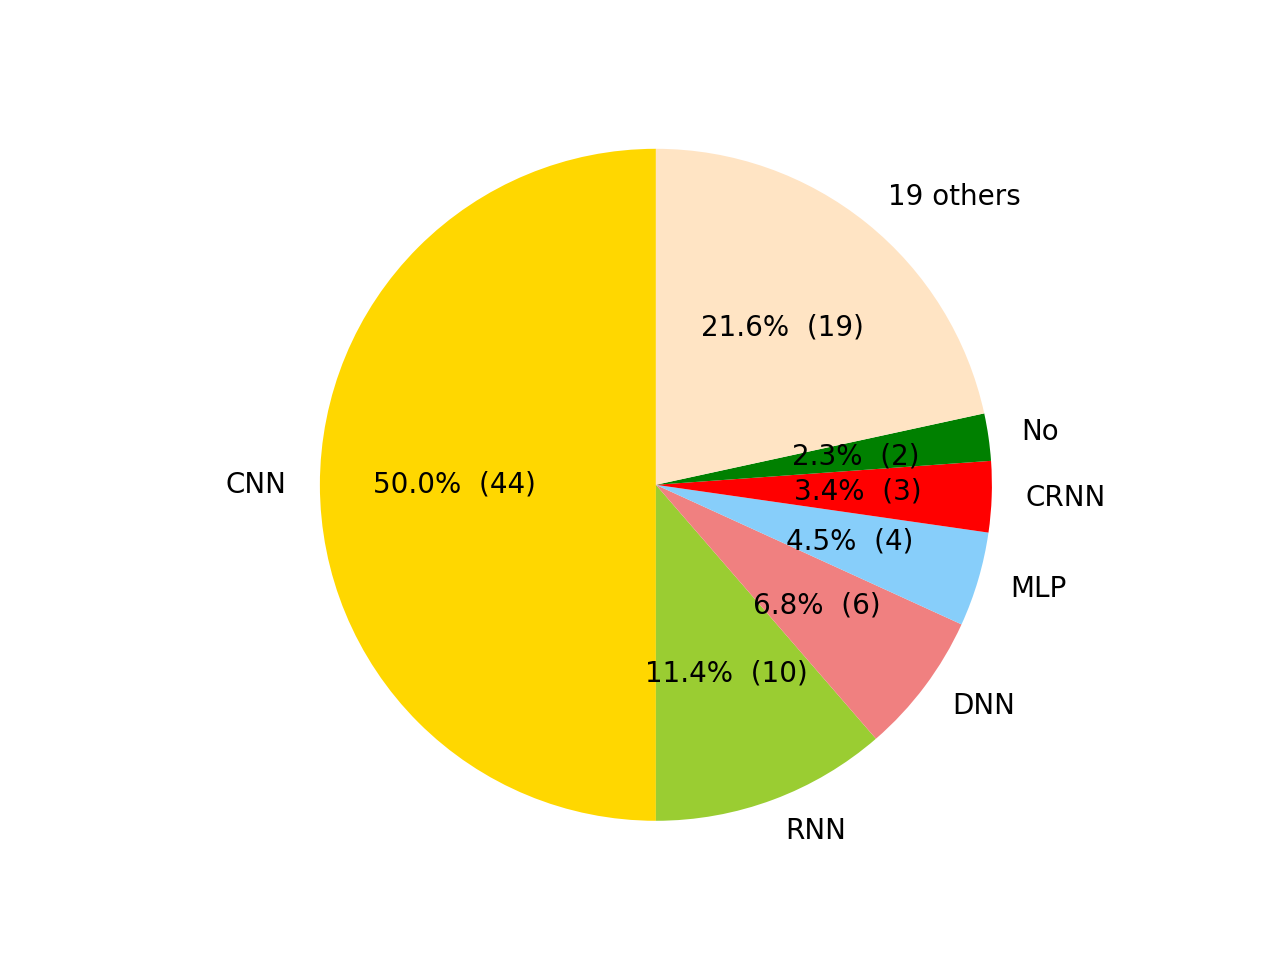
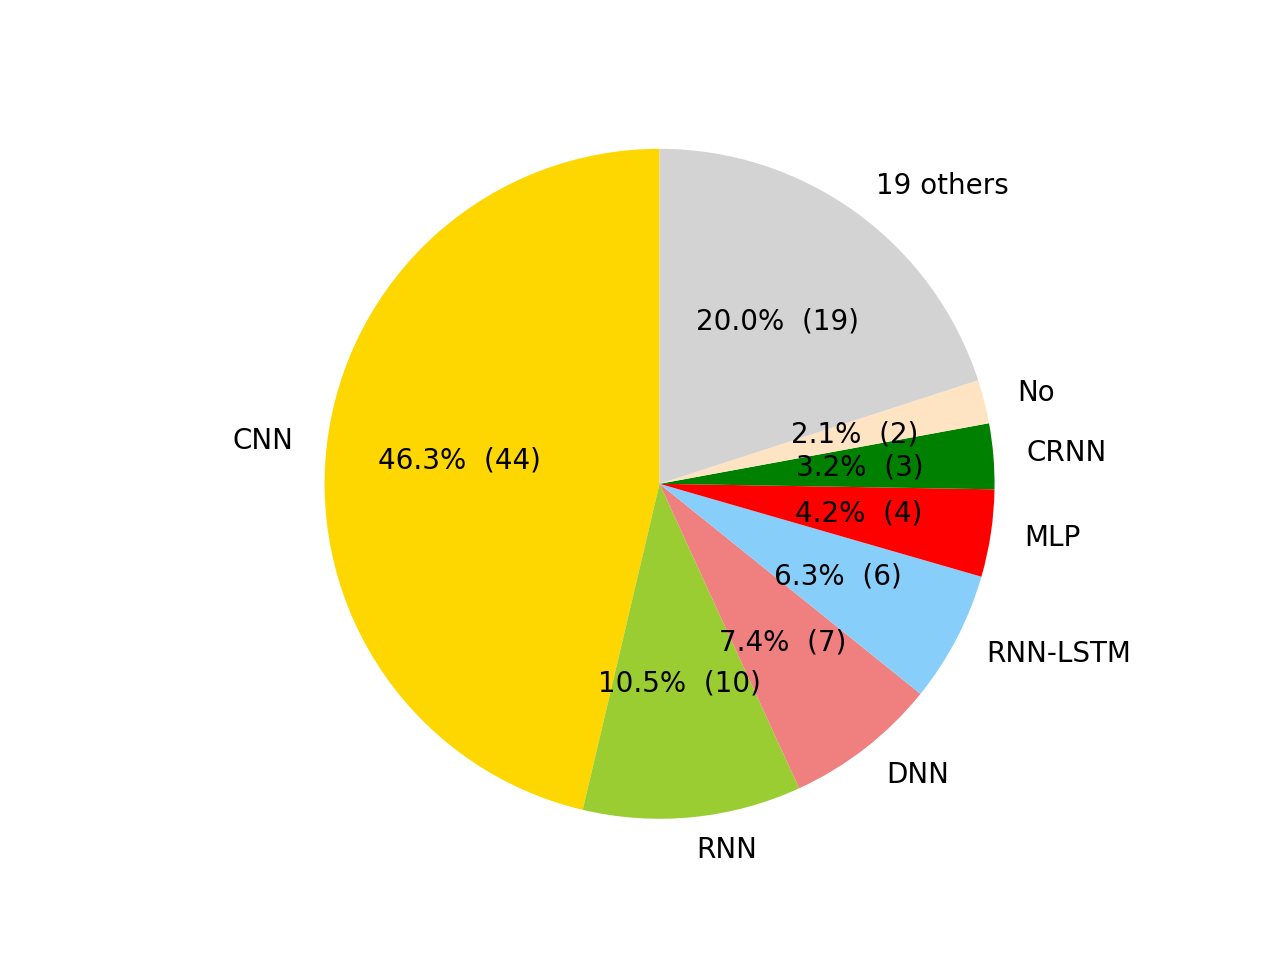
add Soltau1998

diff --git a/README.md b/README.md
@@ -153,6 +153,7 @@ However, these surveys do not cover music information retrieval tasks that are i
 | [A hybrid recurrent neural network for music transcription](https://arxiv.org/pdf/1411.1623.pdf) | No |
 | [An end-to-end neural network for polyphonic music transcription](https://arxiv.org/pdf/1508.01774.pdf) | No |
 | [Deep karaoke: Extracting vocals from musical mixtures using a convolutional deep neural network](https://link.springer.com/chapter/10.1007/978-3-319-22482-4_50) | No |
+| [Recognition of music types](https://www.ri.cmu.edu/pub_files/pub1/soltau_hagen_1998_2/soltau_hagen_1998_2.pdf) | No |
 | [Automatic drum transcription for polyphonic recordings using soft attention mechanisms and convolutional neural networks](http://www.ryanstables.co.uk/docs/ISMIR2017CamReady.pdf) | [GitHub](https://github.com/CarlSouthall/ADTLib) |
 | [Analysis of time-frequency representations for musical onset detection with convolutional neural network](http://ieeexplore.ieee.org/abstract/document/7733228/) | No |
 | [Note onset detection in musical signals via neural-network-based multi-ODF fusion](https://www.degruyter.com/downloadpdf/j/amcs.2016.26.issue-1/amcs-2016-0014/amcs-2016-0014.pdf) | No |
@@ -231,11 +232,11 @@ Each entry in [dl4m.bib](dl4m.bib) also displays additional information:
 
 ## Statistics and visualisations
 
-- 158 papers referenced. See the details in [dl4m.bib](dl4m.bib).
+- 159 papers referenced. See the details in [dl4m.bib](dl4m.bib).
 There are more papers from 2017 than any other years combined.
 Number of articles per year:
 ![Number of articles per year](fig/articles_per_year.png)
-- If you are applying DL to music, there are [323 other researchers](authors.md) in your field.
+- If you are applying DL to music, there are [327 other researchers](authors.md) in your field.
 - 33 tasks investigated. See the list of [tasks](tasks.md).
 Tasks pie chart:
 ![Tasks pie chart](fig/pie_chart_task.png)

diff --git a/authors.md b/authors.md
@@ -243,6 +243,7 @@
 - Schrauwen, Benjamin
 - Schuller, Björn W
 - Schuller, Gerald
+- Schultz, Tanja
 - Senac, Christine
 - Serra, Xavier
 - Seybold, Bryan
@@ -253,6 +254,7 @@
 - Slaney, Malcolm
 - Slizovskaia, Olga
 - Smith, Julius O
+- Soltau, Hagen
 - Sordo, Mohamed
 - Sotelo, Jose
 - Southall, Carl
@@ -284,6 +286,7 @@
 - Voinea, Stephen
 - Volk, Anja
 - Vrysis, Lazaros
+- Waibel, Alex
 - Wang, Chien-Yao
 - Wang, Jia-Ching
 - Wang, Qi
@@ -298,6 +301,7 @@
 - Wattenhofer, Roger
 - Weiss, Ron J.
 - Weninger, Felix
+- Westphal, Martin
 - Weyde, Tillman
 - Widmer, Gerhard
 - Wiesendanger, Jonas

diff --git a/reproducibility.md b/reproducibility.md
@@ -1,6 +1,6 @@
 # Reproducibility and replicability
 
-Out of the 158 papers listed in this repository, only 41 articles provide their source code.
+Out of the 159 papers listed in this repository, only 41 articles provide their source code.
 Repeatability is the key to good science.
 Below is a list of useful links for reproducibility and replicability in Science:
 
